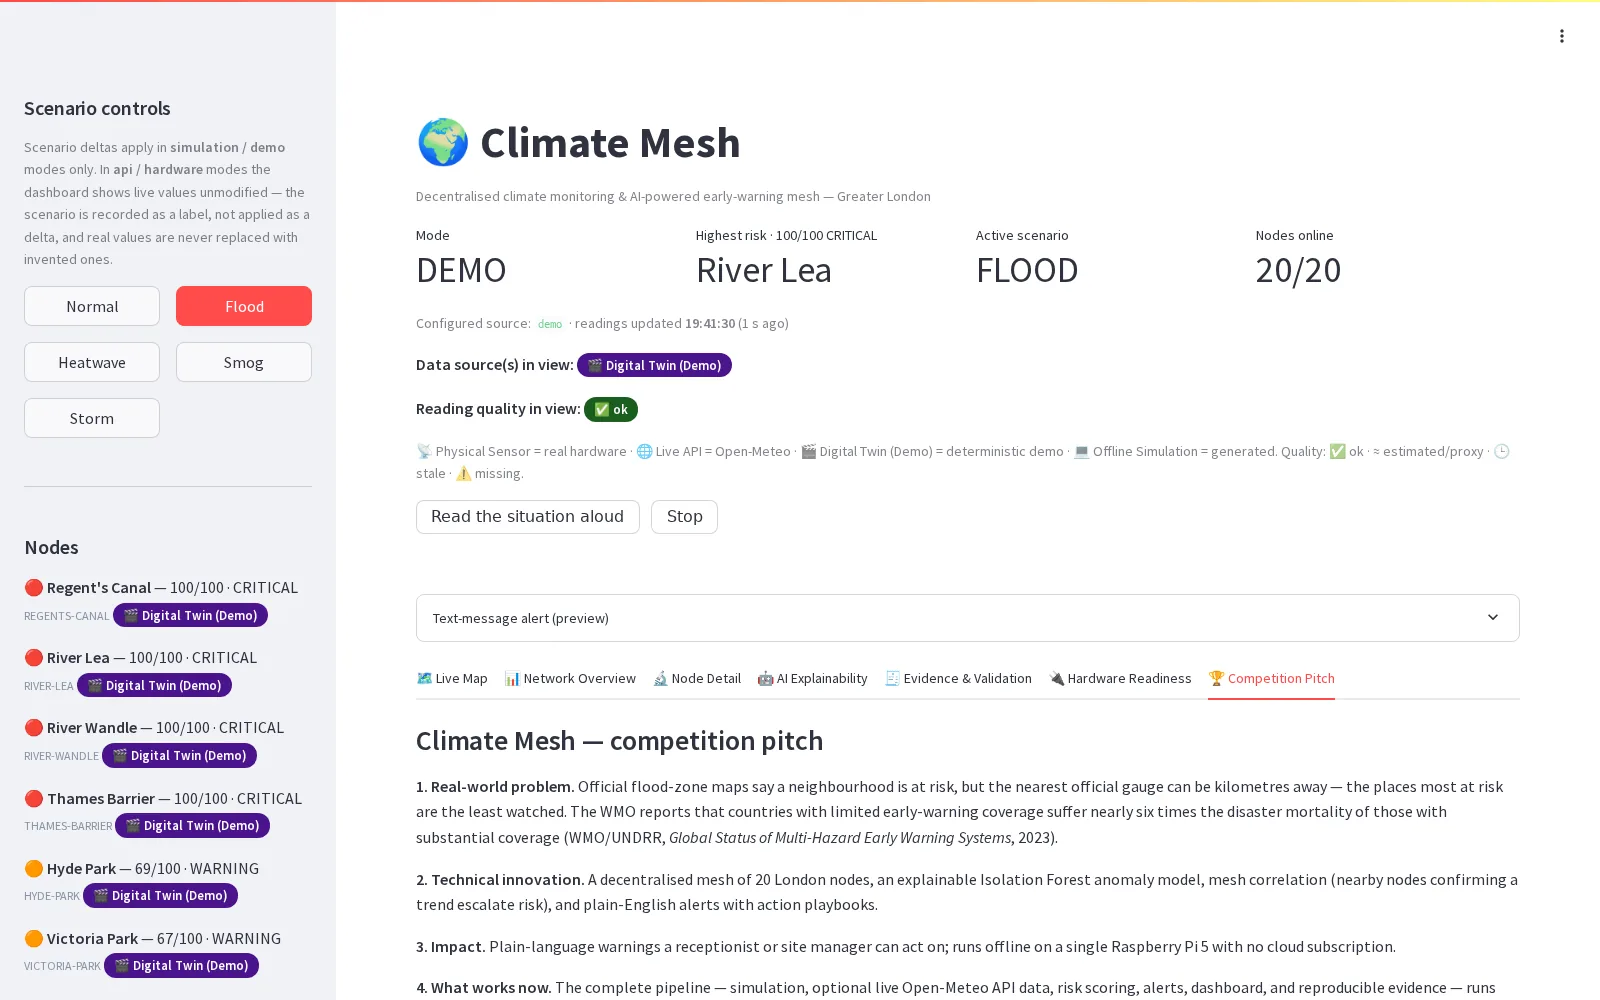
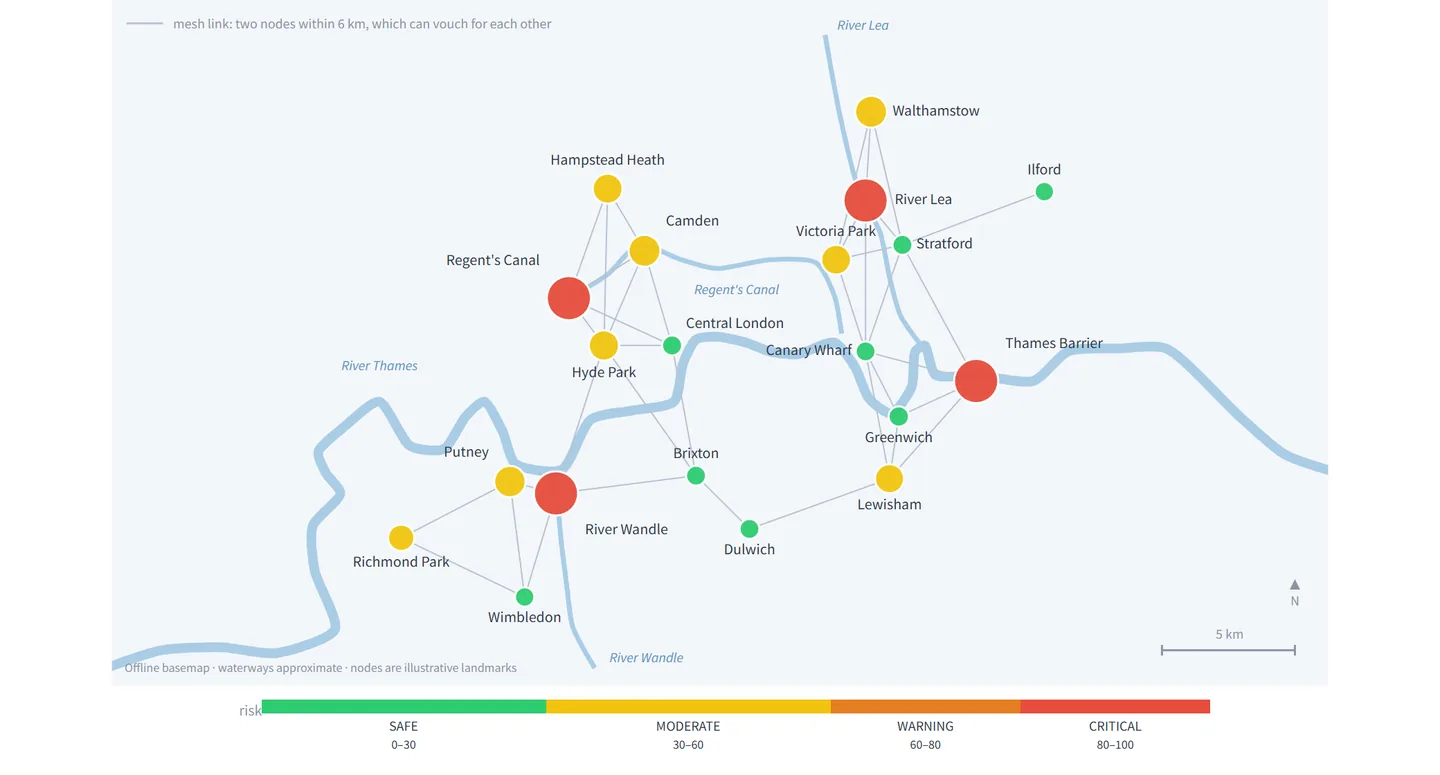
ClimateMesh with its new dashboard; the preprint cited properly; claims matched to the repos
- ClimateMesh gets the redesigned live map, the July 2021 replay figure
  and a one-command check (judge_validate: 461 tests, PASS 5/5).
- The Ratified preprint is cited with its full title, with a BibTeX block.
- Project notes: ClimateMesh figures updated to 3 November; HartBeat,
  Tilefish, QuantumCompiler, CipherTool and RadoRecords lines now say only
  what their READMEs support; PathTracer is 278 tests on both pages.

diff --git a/index.html b/index.html
@@ -119,7 +119,9 @@ python PersonalWebsite/tools/verify_certificate.py</code></pre></div></article>
 <article class="work-entry" aria-labelledby="greekscansion-h"><div class="work-copy"><h3 id="greekscansion-h">GreekScansion</h3><p>GreekScansion scans Classical Greek dactylic hexameter. It claims only what the metre settles, reporting unique, ambiguous or unscannable rather than guessing.</p><p class="links"><a href="https://github.com/Leo-Y-Zhang/GreekScansion">Source</a></p></div><div class="work-visual"><figure class="plate"><div class="type-plate"><p lang="grc">ἄνδρα μοι ἔννεπε, μοῦσα, πολύτροπον, ὃς μάλα πολλὰ</p><pre><samp>2  unique  -??-uu-?u?uu-??-?  DDDDD|</samp></pre><p class="caption">- heavy, u light, ? not settled by the spelling</p></div><figcaption>GreekScansion on Odyssey 1.1. The spelling settles some syllables and leaves others open; the metre forces the rest, so the line has exactly one reading: five dactyls.</figcaption></figure></div></article>
 <article class="work-entry" aria-labelledby="pitlanetycoon-h"><div class="work-copy"><h3 id="pitlanetycoon-h">Pit Lane Tycoon</h3><p>A Roblox tycoon game written in Luau and built with Rojo. You run a racing team's factory: presses stamp out car parts, a conveyor carries them through the paint shop and wind tunnel to scrutineering, and every part that passes pays for the next machine.</p><p>Twenty-four purchases win the Constructors' trophy and start a new season, which resets the garage and adds 50% to all earnings for good. A pit crew, live server events and a time-trial track round the paddock fill the time between purchases.</p><p class="links"><a href="https://github.com/Leo-Y-Zhang/PitLaneTycoon">Source</a></p></div><div class="work-visual"><figure class="plate"><img src="assets/img/pitlanetycoon.webp" width="1280" height="720" alt="Pit Lane Tycoon paddock with team garages and a pit wall" decoding="async" loading="lazy"><figcaption>The paddock in Pit Lane Tycoon, with a garage for each of the six teams.</figcaption></figure></div></article>
 <article class="work-entry" aria-labelledby="endeavourracing-h"><div class="work-copy"><h3 id="endeavourracing-h">EndeavourRacing</h3><p>Three web applications support a STEM Racing team. They provide the website, a lap-time prediction game and a project, risk and budget dashboard.</p><p class="links"><a href="https://leo-y-zhang.github.io/EndeavourRacing/website/">Visit the site</a> <a href="https://github.com/Leo-Y-Zhang/EndeavourRacing">Source</a></p></div><div class="work-visual"><figure class="plate"><img src="assets/img/endeavour.webp" width="1440" height="900" alt="EndeavourRacing team website" decoding="async" loading="lazy"><figcaption>The EndeavourRacing website.</figcaption></figure></div></article>
-<article class="work-entry text-only" aria-labelledby="climatemesh-h"><div class="work-copy"><h3 id="climatemesh-h">ClimateMesh</h3><p>A Raspberry Pi sensor network gives explainable early warnings of floods, heat, smog and storms. A team of two built it for the PA Raspberry Pi Competition 2026. Every panel says where its data came from: a physical sensor, a live API, a recorded event or a simulation.</p><p class="links"><a href="https://github.com/Leo-Y-Zhang/ClimateMesh">Source</a></p></div></article>
+<article class="work-entry" aria-labelledby="climatemesh-h"><div class="work-copy"><h3 id="climatemesh-h">ClimateMesh</h3><p>An early-warning system for floods, heat, smog and storms that runs on one Raspberry Pi, built by a team of two for the PA Raspberry Pi Competition. Twenty nodes across London are scored from 0 to 100, each with a plain-English reason and the actions to take. Every reading says where it came from: a physical sensor, a live API, a recorded event or a simulation.</p><p>In a replay of London’s flash flood of 12 July 2021, the rain gauge at Putney Heath recorded 33.24 mm in one hour, while the public weather grid showed 1.5 mm for the same place.</p><p class="links"><a href="https://github.com/Leo-Y-Zhang/ClimateMesh">Source</a></p></div><div class="work-visual"><figure class="plate"><img src="assets/img/climatemesh.webp" width="1440" height="775" alt="ClimateMesh live risk map of twenty London nodes during a simulated flood, with the river and canal nodes at critical" decoding="async" loading="lazy"><figcaption>The live map during a simulated flood. Each circle is a node, coloured by risk band and sized by score; grey lines join neighbours close enough to confirm each other’s readings.</figcaption></figure></div><div class="work-check"><h4>Check it yourself</h4><p>This runs a smoke test, all 461 automated tests, two demo cycles and the evidence export, and prints PASS or FAIL for each step.</p><pre class="run"><code>git clone https://github.com/Leo-Y-Zhang/ClimateMesh
+cd ClimateMesh &amp;&amp; pip install -r requirements.txt
+python scripts/judge_validate.py</code></pre></div></article>
 </div>
 </section>
 <section class="catalogue-section" id="range" aria-labelledby="range-h">
@@ -189,8 +191,20 @@ python PersonalWebsite/tools/verify_certificate.py</code></pre></div></article>
       </tr>
     </tbody>
   </table></div>
-<p class="links"><a href="vdw.html">The van der Waerden reference</a> <a href="https://aixiv.online/abs/2610.03288">Soundness of RUP and RAT in Lean 4</a> <a href="https://github.com/Leo-Y-Zhang/MathRecords/tree/main/paper">Write-up</a></p>
-<p class="caption">Ratified’s preprint was published on 31 October 2026.</p>
+<p class="links"><a href="vdw.html">The van der Waerden reference</a> <a href="https://github.com/Leo-Y-Zhang/MathRecords/tree/main/paper">Write-up</a></p>
+<h3>Preprint</h3>
+<p class="citation">Leo Y. Zhang. <cite>A Dependency-Free Lean 4 Proof that the RUP and RAT Rules of DRAT Checking Are Sound, with an Executable Checker</cite>. aiXiv 2610.03288, 31 October 2026.</p>
+<p class="links"><a href="https://aixiv.online/abs/2610.03288">Read the preprint</a> <a href="https://github.com/Leo-Y-Zhang/Ratified">Lean source</a></p>
+<details class="bibtex"><summary>BibTeX</summary><pre><code>@misc{zhang2026ratified,
+  author       = {Zhang, Leo Y.},
+  title        = {A Dependency-Free {Lean} 4 Proof that the
+                  {RUP} and {RAT} Rules of {DRAT} Checking
+                  Are Sound, with an Executable Checker},
+  year         = {2026},
+  month        = oct,
+  howpublished = {aiXiv preprint 2610.03288},
+  url          = {https://aixiv.online/abs/2610.03288}
+}</code></pre></details>
 </div>
 </section>
 <section class="catalogue-section" id="try-it" aria-labelledby="try-it-h">
@@ -231,7 +245,7 @@ python PersonalWebsite/tools/verify_certificate.py</code></pre></div></article>
 <div><dt><a href="https://github.com/Leo-Y-Zhang/Splitbrain">Splitbrain</a></dt><dd>Drives a real key-value cluster through seeded TCP partitions and machine-checks the recorded history for linearizability, with a brute-force oracle behind the checker.</dd></div>
 <div><dt><a href="https://github.com/Leo-Y-Zhang/GradForge">GradForge</a></dt><dd>A small autograd engine and character-level GPT in Python with no ML libraries, with numerical gradient checks.</dd></div>
 <div><dt><a href="https://github.com/Leo-Y-Zhang/QuantumCompiler">QuantumCompiler</a></dt><dd>Toy quantum-circuit compiler; each optimisation is checked by comparing unitaries exactly.</dd></div>
-<div><dt><a href="https://github.com/Leo-Y-Zhang/PathTracer">PathTracer</a></dt><dd>Zero-dependency, deterministic Monte Carlo path tracer in TypeScript whose 274 tests validate the rendering physics, not just the code.</dd></div>
+<div><dt><a href="https://github.com/Leo-Y-Zhang/PathTracer">PathTracer</a></dt><dd>Zero-dependency, deterministic Monte Carlo path tracer in TypeScript whose 278 tests validate the rendering physics, not just the code.</dd></div>
 </dl></div>
 <div class="index-group"><h3>Language and puzzles</h3><dl class="repo-index">
 <div><dt><a href="https://github.com/Leo-Y-Zhang/GreekScansion">GreekScansion</a></dt><dd>Scans Greek dactylic hexameter. If exactly one legal scansion fits a line it reports it; otherwise it says ambiguous or unscannable.</dd></div>

diff --git a/projects.html b/projects.html
@@ -36,7 +36,7 @@
 <div class="page-intro"><h1>Project notes</h1><p class="deck">The projects and the evidence behind their results.</p></div>
 
 <section class="catalogue-section" id="glance" aria-labelledby="glance-h"><h2 id="glance-h">At a glance</h2><div class="section-content">
-  <p>There are <strong>36 public repositories</strong> and <strong>174 accepted OEIS terms across 21 sequences</strong>. The OEIS figure was re-derived on 3 November 2026. Over 3,700 automated tests were measured across the two main systems on 26 August 2026. The <a href="index.html#mathematics">mathematics is on the home page</a>, with the certificate.</p>
+  <p>There are <strong>36 public repositories</strong> and <strong>174 accepted OEIS terms across 21 sequences</strong>. Both figures were re-derived on 3 November 2026. The <a href="index.html#mathematics">mathematics is on the home page</a>, with the certificate.</p>
 </div></section>
 
 <section class="catalogue-section" id="selected-notes" aria-labelledby="selected-notes-h"><h2 id="selected-notes-h">Selected projects</h2><div class="section-content">
@@ -51,7 +51,7 @@
 
     <dt><a href="https://github.com/Leo-Y-Zhang/TileFish">Tilefish</a> <span class="lang">C++</span></dt>
     <dd>A Scrabble engine in C++ using the standard library: move generation, Monte Carlo simulation, endgame solving
-    and self-play training, with every shortcut checked against brute force.
+    and self-play training, with its search shortcuts checked against brute force on sampled positions.
     Its strength is measured, not asserted: logged matches under a neutral
     referee against the strongest public engines, MAGPIE and Macondo, with the
     opponents pinned to recorded versions and the results and their limits in
@@ -75,11 +75,12 @@
     document is generated from the system, never typed.</dd>
 
     <dt><a href="https://github.com/Leo-Y-Zhang/ClimateMesh">ClimateMesh</a> <span class="lang">Python, Raspberry Pi</span></dt>
-    <dd>Climate early warnings from a two-person team: twenty sensing nodes scoring flood and heat risk 0&ndash;100
+    <dd>Climate early warnings from a two-person team: twenty London nodes scored for flood, heat, smog and storm risk 0&ndash;100
     in real time on one Raspberry Pi, an explainable anomaly model, and honest
     data-source provenance &mdash; a reading is labelled <em>hardware</em> only
-    when a physical sensor produced it. 236 automated tests (6 October 2026) and a one-command
-    judge validation passing 5/5 (26 August 2026).</dd>
+    when a physical sensor produced it. A replay of London&rsquo;s July 2021 flash flood
+    shows what the public weather grid missed. 461 automated tests and a one-command
+    judge validation passing 5/5 (3 November 2026).</dd>
   </dl>
 </div></section>
 
@@ -101,8 +102,8 @@
   <p>Each of these exists to make a claim checkable rather than to assert it.</p>
   <dl class="projects">
     <dt><a href="https://github.com/Leo-Y-Zhang/HartBeat">HartBeat</a> <span class="lang">Rust</span></dt>
-    <dd>An RV32IM RISC-V interpreter, tested against the architecture's official
-    compliance vectors.</dd>
+    <dd>An RV32IM RISC-V interpreter, checked three independent ways: hand-written
+    specification cases, a second implementation, and real compiled programs.</dd>
 
     <dt><a href="https://github.com/Leo-Y-Zhang/Ratified">Ratified</a> <span class="lang">Lean 4</span></dt>
     <dd>A machine-checked proof-checker development: the soundness argument
@@ -123,10 +124,9 @@
     re-derived by different code before they are trusted.</dd>
 
     <dt><a href="https://github.com/Leo-Y-Zhang/CipherTool">CipherTool</a> <span class="lang">Python</span></dt>
-    <dd>A classical-cipher solver run on forty published National Cipher
-    Challenge ciphertexts: all twenty-two with a published answer solved, the
-    other eighteen recorded as unverified rather than solved, and none labelled
-    strong while wrong.</dd>
+    <dd>A classical-cipher toolkit: fifteen cipher types, an English language
+    model and ranked candidate decryptions, with confidence labels capped
+    where its own measurements show a short ciphertext cannot be trusted.</dd>
 
     <dt><a href="https://github.com/Leo-Y-Zhang/GradForge">GradForge</a> <span class="lang">Python</span></dt>
     <dd>A reverse-mode autograd engine and a small GPT on top;
@@ -143,7 +143,7 @@
 
     <dt><a href="https://github.com/Leo-Y-Zhang/QuantumCompiler">QuantumCompiler</a> <span class="lang">Python</span></dt>
     <dd>A teaching quantum-circuit compiler whose optimisations and SWAP routing
-    are proved correct by exact unitary equivalence.</dd>
+    are checked by exact unitary comparison on small circuits.</dd>
 
     <dt><a href="https://github.com/Leo-Y-Zhang/ChessPuzzleForge">ChessPuzzleForge</a> <span class="lang">Python</span></dt>
     <dd>An offline mate-in-N generator; a bundled chess engine re-proves
@@ -156,7 +156,7 @@
     <dd>Melting, freezing and boiling from one enthalpy conservation law, benchmarked against the analytic Stefan solution; <a href="https://leo-y-zhang.github.io/MeltSim/">runs in the browser</a>.</dd>
 
     <dt><a href="https://github.com/Leo-Y-Zhang/RadoRecords">RadoRecords</a> <span class="lang">Python</span></dt>
-    <dd>2-colour Rado numbers for <span class="m">x<sub>1</sub><sup>2</sup>+&hellip;+x<sub>n</sub><sup>2</sup> = z<sup>2</sup></span>, carried from a(30) to a(60) with DRAT-certified refutations.</dd>
+    <dd>2-colour Rado numbers for <span class="m">x<sub>1</sub><sup>2</sup>+&hellip;+x<sub>n</sub><sup>2</sup> = z<sup>2</sup></span>, thirty new terms, a(31) to a(60), with DRAT-certified refutations.</dd>
 
     <dt><a href="https://github.com/Leo-Y-Zhang/OEISHeadroom">OEISHeadroom</a> <span class="lang">Python</span></dt>
     <dd>Finds OEIS sequences that stopped where a brute force ran out of patience, then extends them, each gated on reproducing every published term first.</dd>

diff --git a/style.css b/style.css
@@ -275,3 +275,11 @@ li { margin-bottom: 0.65rem; }
 }
 
 .work-entry.text-only .work-copy { grid-column: 1 / -1; grid-row: auto; max-width: 68ch; }
+
+.citation { max-width: 68ch; margin-bottom: 0.4rem; }
+.citation cite { font-style: italic; }
+details.bibtex { margin: 0 0 1rem; max-width: 68ch; }
+details.bibtex summary { cursor: pointer; font-family: "Plex Mono", monospace; font-size: 0.8rem; color: var(--slate); padding: 0.25rem 0; }
+details.bibtex summary:focus-visible { outline: 2px solid var(--navy); outline-offset: 2px; }
+details.bibtex pre { margin-top: 0.5rem; white-space: pre; overflow-wrap: normal; }
+@media print, (max-width: 700px) { details.bibtex pre { white-space: pre-wrap; } }
